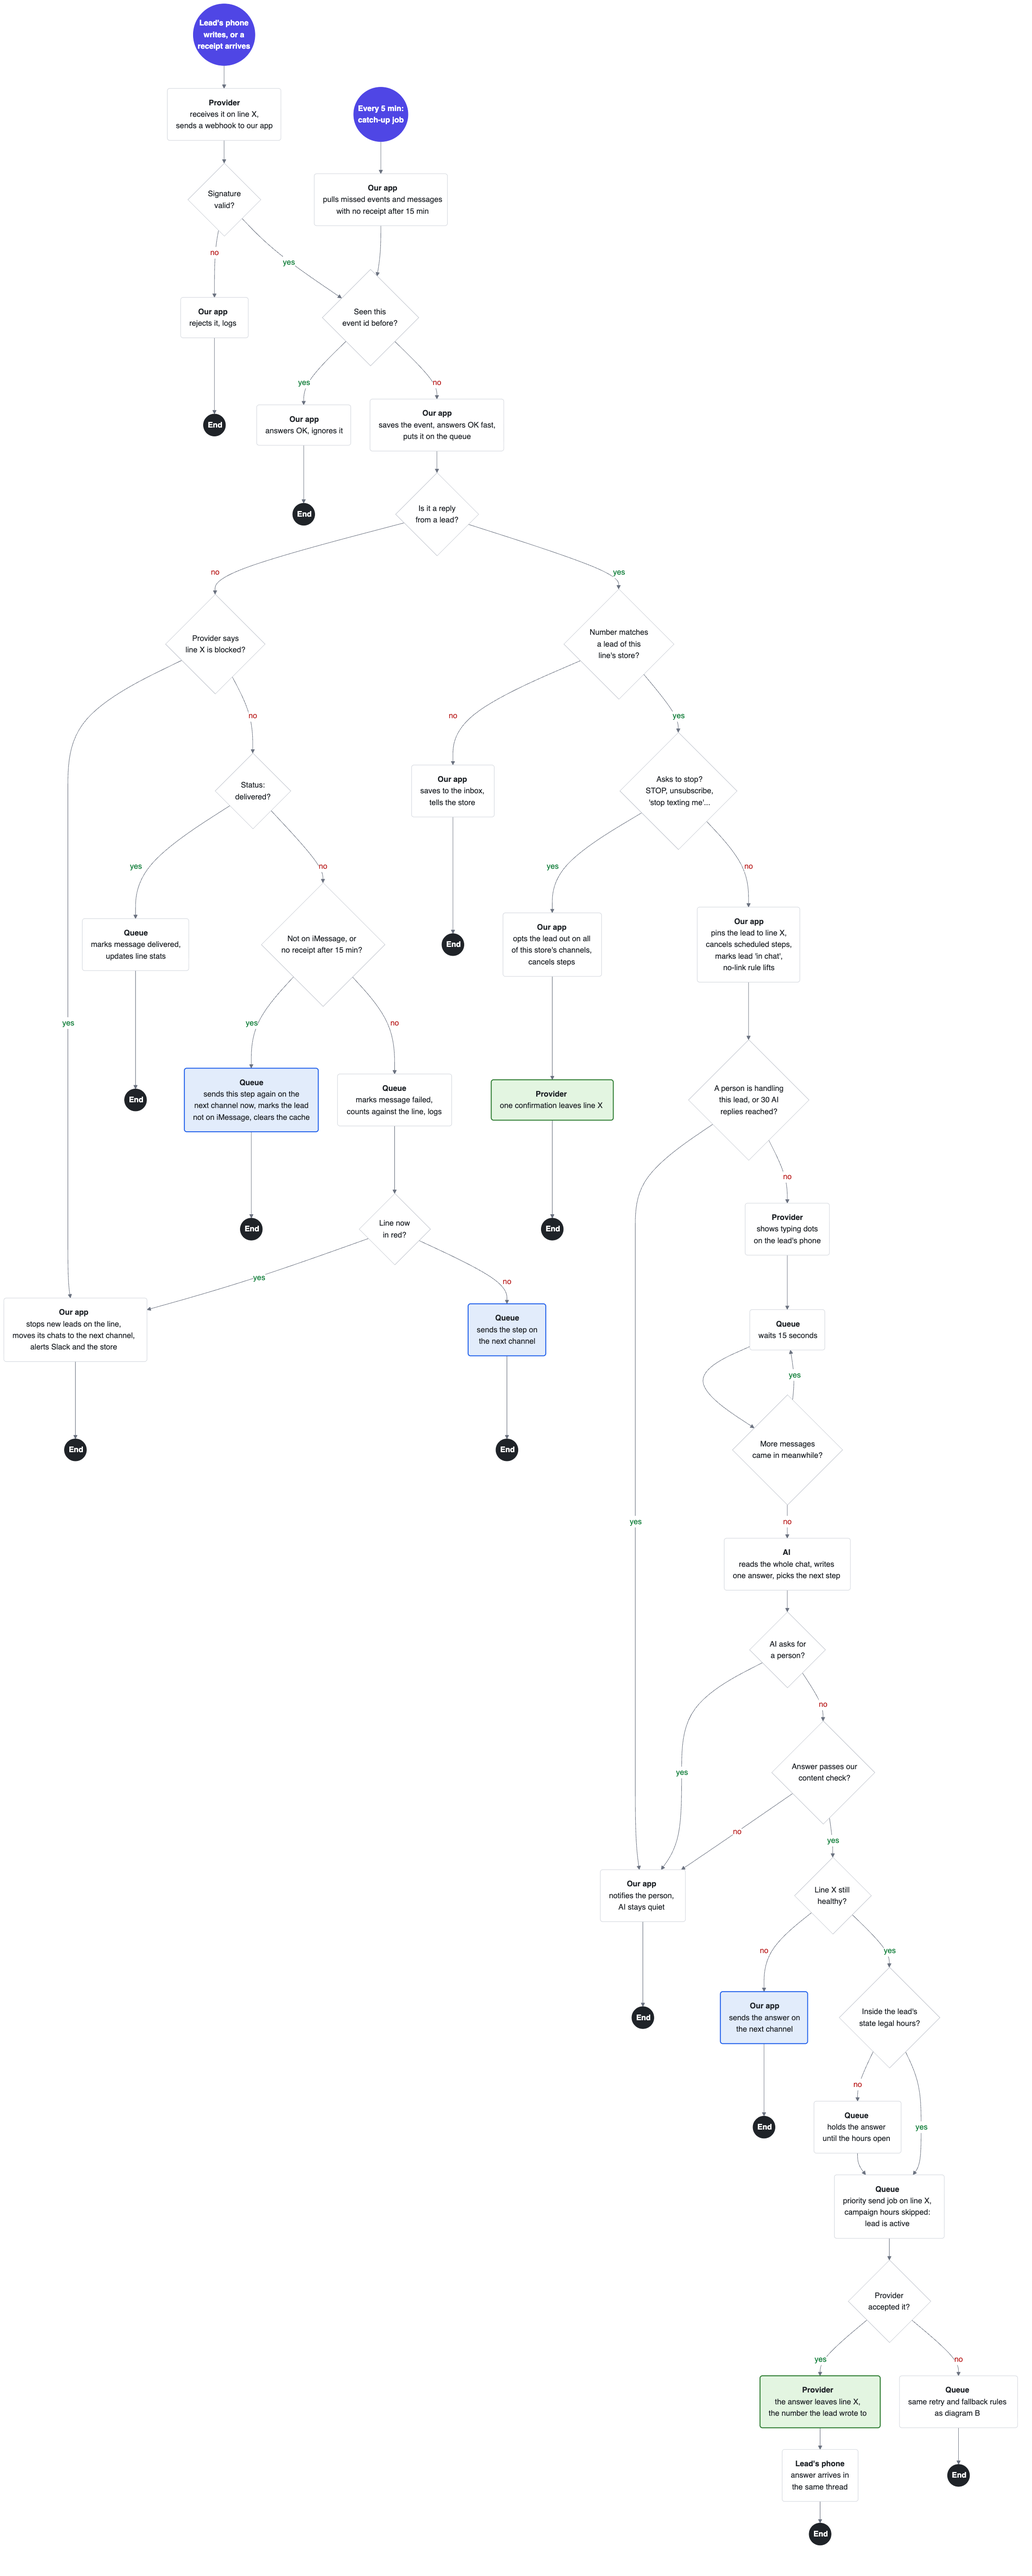
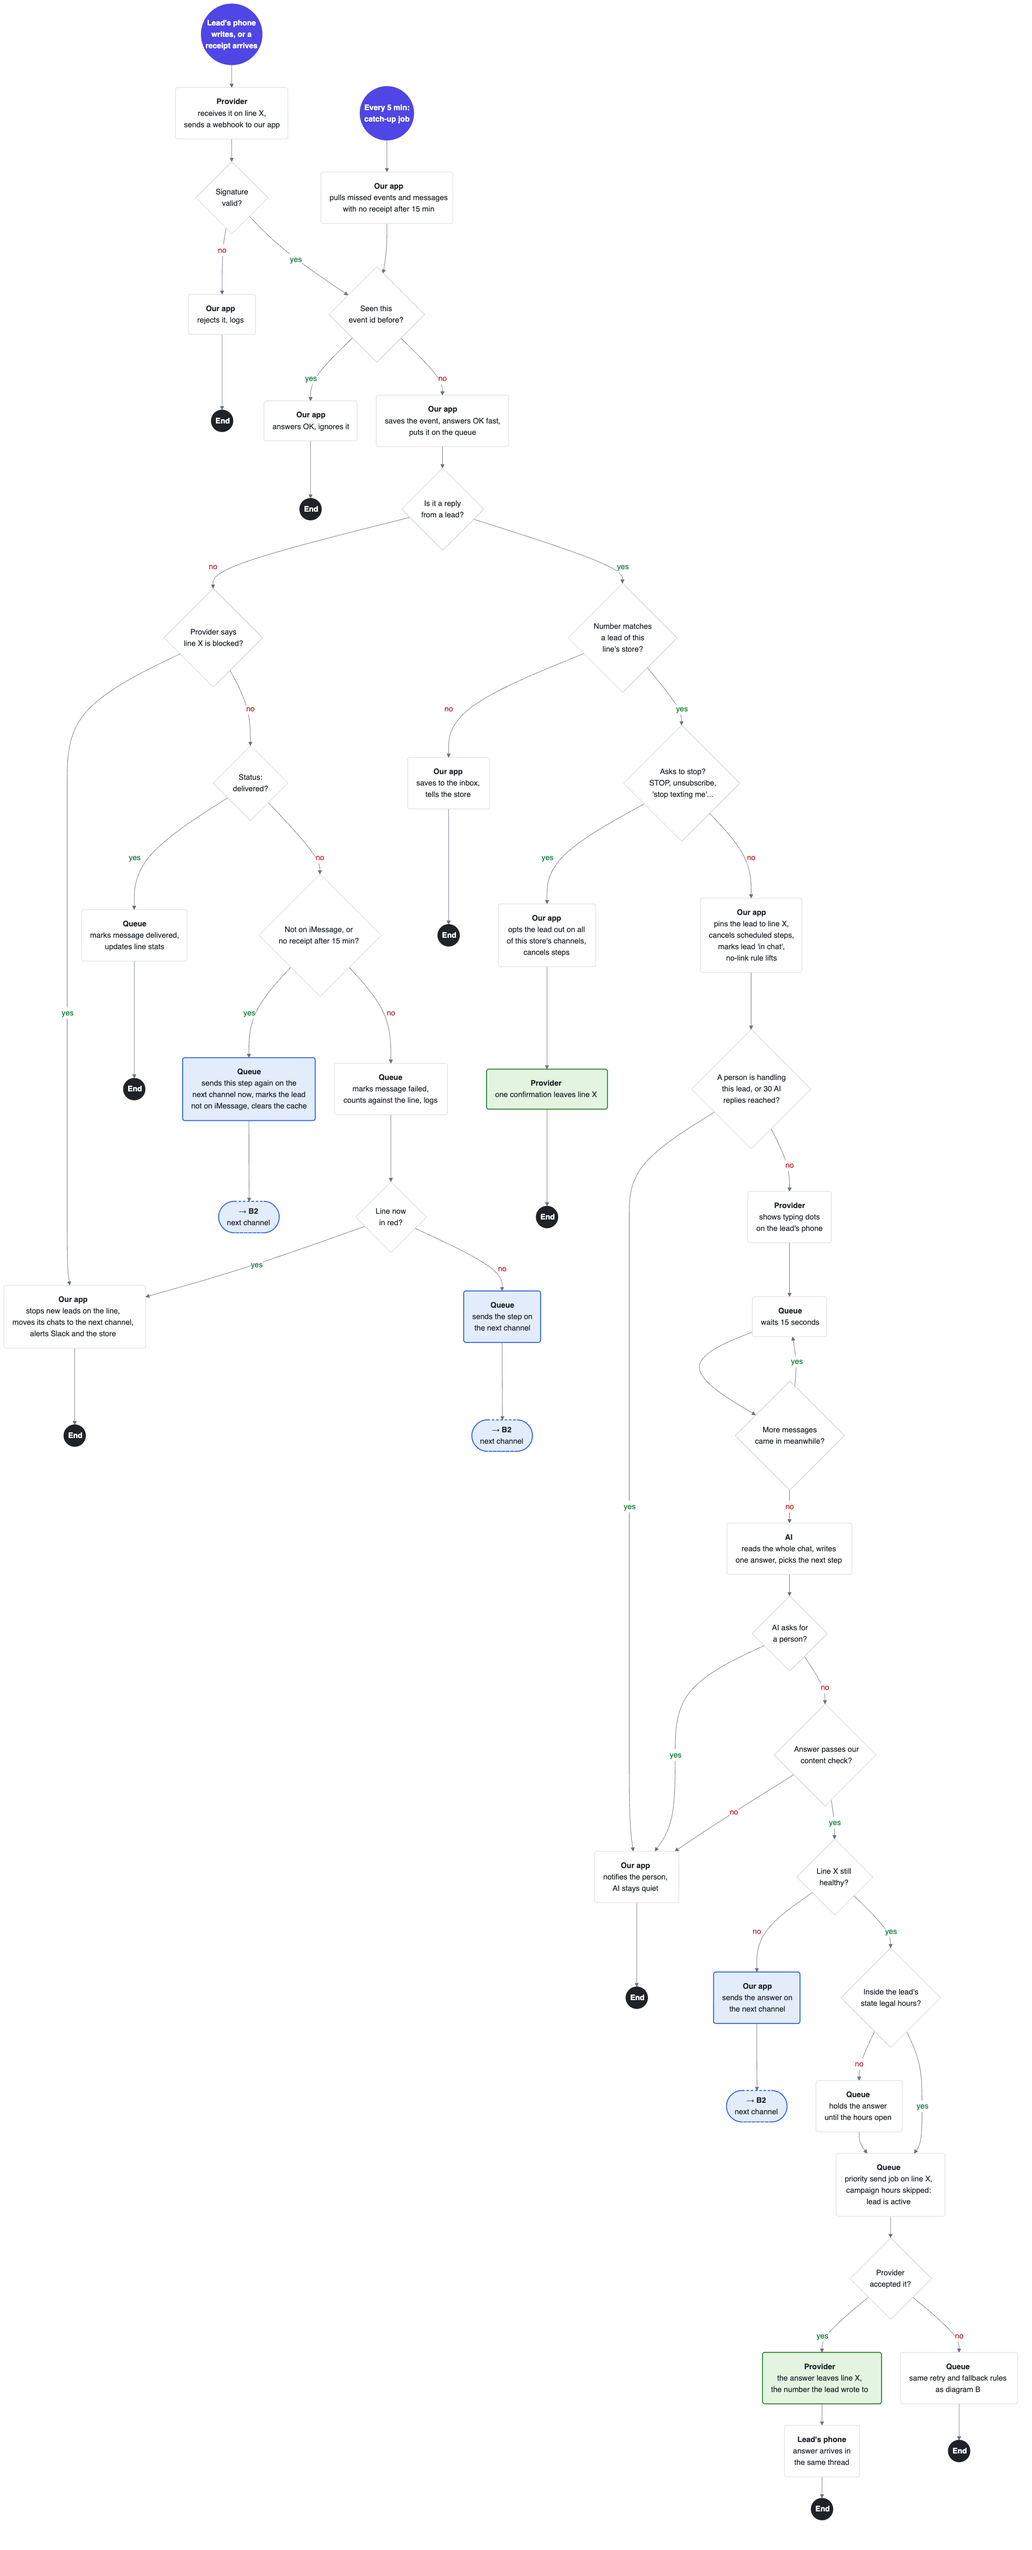
Diagram B2: where a step goes when iMessage can't take it
Every blue box in B and C now hands over to B2: a priority job due now,
the next channel the lead can get, the AI writes the step again for it,
the usual checks, and the SMS leaving the store's SMS number.

diff --git a/diagrams.md b/diagrams.md
@@ -2,16 +2,16 @@
 
 Back to the plan: [README.md](README.md)
 
-**Why B and C:** messages leave a number and replies come back only in these two, so most failures happen here. A is manual in v1, and D is covered by the plan's section 3.
+**Why B and C:** messages leave a number and replies come back only in these two, so most failures happen here. A is manual in v1, and D is covered by the plan's section 3. **B2** is the end of B: where a step goes when iMessage can't take it.
 
-**Where this sits in today's flow:** lead joins a campaign → scheduler: step is due → **B:** iMessage or the next channel → AI writes for that channel → provider sends → **C:** statuses and replies → AI answers. One change to today: for text steps, the AI writes when the step is due, not before, because only then do we know the channel.
+**Where this sits in today's flow:** lead joins a campaign → scheduler: step is due → **B:** iMessage, or the next channel (**B2**) → AI writes for that channel → provider sends → **C:** statuses and replies → AI answers. One change to today: for text steps, the AI writes when the step is due, not before, because only then do we know the channel.
 
 **How to read:**
-- 🟣 start (what triggers it) · ⚫ end, one per branch · ◇ a question, with yes and no arrows · ▢ an action, **bold** = who does it · 🟩 an iMessage leaves line X · 🟦 the step moves to the next channel
+- 🟣 start (what triggers it) · ⚫ end, one per branch · ◇ a question, with yes and no arrows · ▢ an action, **bold** = who does it · 🟩 an iMessage leaves line X · 🟦 the step moves to the next channel · dashed 🟦 → B2: continues in diagram B2
 - **Who does it:** our app, the queue, the AI, the provider, or the lead's phone.
 - **Line X** is the store's iMessage line this lead is pinned to. Every iMessage to the lead comes from it.
 - **Which steps:** iMessage is a fifth channel. When it's on, a lead on iMessage gets every text step, iMessage or SMS, from line X. One number per lead.
-- **Next channel** (blue boxes): SMS from the store's SMS number if the campaign has SMS on, else the campaign's next channel, such as email or a call. That channel's own flow and checks take over, and the AI writes the message again for it. An iMessage text is never reused.
+- **Next channel** (blue boxes): the step continues in diagram B2. It goes by SMS from the store's SMS number if the campaign has SMS on, else on the campaign's next channel, such as email or a call. The AI writes the message again for that channel. An iMessage text is never reused.
 - **No waiting on fallback:** it's a new job on the priority queue, due now, not back on the campaign schedule. From a failed iMessage to the next channel's message takes under 2 minutes.
 - **Logging:** every refusal, retry, fallback and drop is logged with its reason and the provider's error key.
 
@@ -26,33 +26,33 @@ flowchart TD
     A1 --> Q0{"Already sent?<br/>same message id"}
     Q0 -- yes --> E0(("<b>End</b>"))
     Q0 -- no --> Q1{"iMessage on globally,<br/>for the store and the campaign,<br/>with a live line?"}
-    Q1 -- no --> F1("<b>Our app</b><br/>hands the step to the campaign's<br/>next channel, no iMessage sent") --> E1(("<b>End</b>"))
+    Q1 -- no --> F1("<b>Our app</b><br/>hands the step to the campaign's<br/>next channel, no iMessage sent"):::sms --> E1(["<b>→ B2</b><br/>next channel"])
     Q1 -- yes --> Q2{"US/CA number, consent,<br/>passes Do Not Call, not opted out,<br/>not texting us from another number?<br/>pilot: not FL, MD or OK"}
-    Q2 -- no --> F2("<b>Our app</b><br/>next channel, no iMessage sent,<br/>logs why") --> E2(("<b>End</b>"))
+    Q2 -- no --> F2("<b>Our app</b><br/>next channel, no iMessage sent,<br/>logs why"):::sms --> E2(["<b>→ B2</b><br/>next channel"])
     Q2 -- yes --> Q3{"iMessage result cached<br/>in the last 30 days?"}
     Q3 -- no --> L1("<b>Provider</b><br/>lookup: is this number on iMessage?") --> L2("<b>Our app</b><br/>saves the result") --> Q4
     Q3 -- yes --> Q4{"Lead is on<br/>iMessage?"}
-    Q4 -- no --> F3("<b>Our app</b><br/>sends this step on<br/>the next channel"):::sms --> E3(("<b>End</b>"))
+    Q4 -- no --> F3("<b>Our app</b><br/>sends this step on<br/>the next channel"):::sms --> E3(["<b>→ B2</b><br/>next channel"])
     Q4 -- yes --> QG{"Pilot: in the iMessage group?<br/>picked at random once<br/>per lead, then saved"}
-    QG -- no --> F11("<b>Our app</b><br/>group without iMessage: the step<br/>runs as if iMessage were off,<br/>counted in the test"):::sms --> E15(("<b>End</b>"))
+    QG -- no --> F11("<b>Our app</b><br/>group without iMessage: the step<br/>runs as if iMessage were off,<br/>counted in the test"):::sms --> E15(["<b>→ B2</b><br/>next channel"])
     QG -- yes --> QL{"Inside the lead's<br/>state legal hours?"}
     QL -- no --> R1("<b>Queue</b><br/>moves the step to the next window") --> E4(("<b>End</b>"))
     QL -- yes --> Q5{"Inside campaign hours, or lead<br/>wrote in the last 30 min?"}
     Q5 -- no --> R1
     Q5 -- yes --> Q6{"Lead already has<br/>an iMessage line?"}
     Q6 -- yes --> Q7{"Is that line<br/>healthy?"}
-    Q7 -- no --> F4("<b>Our app</b><br/>sends on the next channel,<br/>logs why"):::sms --> E5(("<b>End</b>"))
+    Q7 -- no --> F4("<b>Our app</b><br/>sends on the next channel,<br/>logs why"):::sms --> E5(["<b>→ B2</b><br/>next channel"])
     Q7 -- yes --> X1("<b>Our app</b><br/>keeps the same line = line X") --> Q10
     Q6 -- no --> Q8{"Any of the store's lines with a<br/>free new-contact slot? daily cap<br/>10 → 25 → 50 in warm-up,<br/>15 an hour"}
     Q8 -- yes --> X2("<b>Our app</b><br/>picks the line with most free slots<br/>= line X") --> Q10
     Q8 -- no --> Q9{"Daily caps all used,<br/>or lead waited<br/>over 10 minutes?"}
-    Q9 -- yes --> F5("<b>Our app</b><br/>sends this step on the next<br/>channel while the cart is fresh"):::sms --> E6(("<b>End</b>"))
+    Q9 -- yes --> F5("<b>Our app</b><br/>sends this step on the next<br/>channel while the cart is fresh"):::sms --> E6(["<b>→ B2</b><br/>next channel"])
     Q9 -- no --> R2("<b>Queue</b><br/>tries again in 2 min") --> E7(("<b>End</b>"))
 
     Q10{"Has the lead ever<br/>written to line X?"}
     Q10 -- yes --> AI2("<b>AI</b><br/>writes the full message,<br/>checkout link allowed") --> QC
     Q10 -- no --> Q11{"Already 2 iMessages<br/>with no reply?"}
-    Q11 -- yes --> F6("<b>Our app</b><br/>moves the lead to the next<br/>channel, sends with the link"):::sms --> E8(("<b>End</b>"))
+    Q11 -- yes --> F6("<b>Our app</b><br/>moves the lead to the next<br/>channel, sends with the link"):::sms --> E8(["<b>→ B2</b><br/>next channel"])
     Q11 -- no --> AI1("<b>AI</b><br/>writes a short question: names<br/>the brand, says it's an assistant,<br/>no link, max 300 characters") --> QC
 
     QC{"Passes our<br/>content check?"}
@@ -74,12 +74,12 @@ flowchart TD
     Q13 -- no --> Q14{"Temporary error?<br/>rate limit, 5xx, timeout"}
     Q14 -- yes --> Q15{"Tried 3<br/>times already?"}
     Q15 -- no --> R4("<b>Queue</b><br/>retries after 10 s, 30 s, 60 s, logs") --> Q12
-    Q15 -- yes --> F7("<b>Our app</b><br/>sends on the next channel,<br/>logs, alerts"):::sms --> E10(("<b>End</b>"))
+    Q15 -- yes --> F7("<b>Our app</b><br/>sends on the next channel,<br/>logs, alerts"):::sms --> E10(["<b>→ B2</b><br/>next channel"])
     Q14 -- no --> Q16{"Declined because<br/>of the text?"}
     Q16 -- yes --> Q17{"Already<br/>rewritten once?"}
     Q17 -- no --> AI3("<b>AI</b><br/>rewrites without the blocked part") --> Q12
-    Q17 -- yes --> F8("<b>Our app</b><br/>sends on the next channel,<br/>logs why"):::sms --> E11(("<b>End</b>"))
-    Q16 -- no --> F9("<b>Our app</b><br/>line limit hit or line blocked:<br/>marks the line, logs,<br/>health check runs,<br/>sends this step on<br/>the next channel"):::sms --> E12(("<b>End</b>"))
+    Q17 -- yes --> F8("<b>Our app</b><br/>sends on the next channel,<br/>logs why"):::sms --> E11(["<b>→ B2</b><br/>next channel"])
+    Q16 -- no --> F9("<b>Our app</b><br/>line limit hit or line blocked:<br/>marks the line, logs,<br/>health check runs,<br/>sends this step on<br/>the next channel"):::sms --> E12(["<b>→ B2</b><br/>next channel"])
 
     classDef start fill:#4f46e5,stroke:#4f46e5,color:#ffffff
     classDef finish fill:#1f2328,stroke:#1f2328,color:#ffffff
@@ -87,17 +87,61 @@ flowchart TD
     classDef decision fill:#ffffff,stroke:#c4c8d0,color:#1f2328
     classDef out fill:#e3f5e1,stroke:#2e7d32,stroke-width:2px,color:#1f2328
     classDef sms fill:#e2ecfb,stroke:#2563eb,stroke-width:2px,color:#1f2328
+    classDef jump fill:#e2ecfb,stroke:#2563eb,stroke-width:2px,stroke-dasharray:5 4,color:#1f2328
     class S start
-    class E0,E1,E2,E3,E15,E4,E5,E6,E7,E8,E13,E14,E9,E10,E11,E12 finish
+    class E0,E4,E7,E13,E14,E9 finish
+    class E1,E2,E3,E15,E5,E6,E8,E10,E11,E12 jump
     class Q0,Q1,Q2,Q3,Q4,QG,QL,Q5,Q6,Q7,Q8,Q9,Q10,Q11,QC,QC2,Q12,QS,Q13,Q14,Q15,Q16,Q17 decision
-    class A1,F1,F2,L1,L2,R1,X1,X2,R2,AI2,AI1,AI4,F10,R3,X3,SEND,OK2,PH,R4,AI3 action
+    class A1,L1,L2,R1,X1,X2,R2,AI2,AI1,AI4,F10,R3,X3,SEND,OK2,PH,R4,AI3 action
     linkStyle 2,6,9,13,16,19,22,24,25,28,31,34,38,41,48,50,53,56,58,63,66,69,72 color:#15803d,stroke:#6b7280
     linkStyle 3,4,7,10,14,17,20,23,26,30,33,36,40,43,45,46,51,54,62,64,68,70,74 color:#b91c1c,stroke:#6b7280
 ```
 
-🟣 start (what triggers it) · ⚫ end, one per branch · ◇ a question, with yes and no arrows · ▢ an action, **bold** = who does it · 🟩 an iMessage leaves line X · 🟦 the step moves to the next channel
+🟣 start (what triggers it) · ⚫ end, one per branch · ◇ a question, with yes and no arrows · ▢ an action, **bold** = who does it · 🟩 an iMessage leaves line X · 🟦 the step moves to the next channel · dashed 🟦 → B2: continues in diagram B2
 
 If the diagram doesn't render: [diagram-b.png](diagram-b.png)
+
+---
+
+## B2. Next channel: where a step goes when iMessage can't take it
+
+Every blue box in B and C ends here. The step doesn't wait for the campaign schedule, and the AI writes it again for the new channel.
+
+```mermaid
+%%{init: {"theme": "base", "themeVariables": {"fontFamily": "Helvetica, Arial, sans-serif", "primaryColor": "#ffffff", "primaryBorderColor": "#d0d4db", "primaryTextColor": "#1f2328", "lineColor": "#6b7280", "edgeLabelBackground": "#ffffff"}, "themeCSS": "foreignObject { overflow: visible; } .nodeLabel { white-space: nowrap; }", "flowchart": {"curve": "basis", "nodeSpacing": 40, "rankSpacing": 45, "padding": 18}}}%%
+flowchart TD
+    S(("<b>A blue box<br/>in B or C</b>")) --> Q0("<b>Queue</b><br/>new priority job, due now,<br/>iMessage crossed out for this step")
+    Q0 --> C1{"Another channel the campaign<br/>has on, that the lead can get?<br/>consent, not opted out.<br/>SMS first, then email or a call"}
+    C1 -- no --> N1("<b>Our app</b><br/>no channel left:<br/>drops the step, logs why") --> E1(("<b>End</b>"))
+    C1 -- yes --> AI1("<b>AI</b><br/>writes the step again for that channel.<br/>SMS: short, with the link and how to stop.<br/>Mid-chat: says it's the same store,<br/>on a new number")
+    AI1 --> C2{"Passes our<br/>content check?"}
+    C2 -- no --> N2("<b>Our app</b><br/>does not send, logs,<br/>alerts the team") --> E2(("<b>End</b>"))
+    C2 -- yes --> C3{"Inside the lead's legal hours,<br/>and campaign hours unless<br/>the lead is mid-chat?"}
+    C3 -- no --> N3("<b>Queue</b><br/>holds it for the next window,<br/>still a priority job") --> E3(("<b>End</b>"))
+    C3 -- yes --> C4{"Step still wanted?<br/>no purchase, reply<br/>or opt-out meanwhile"}
+    C4 -- no --> N4("<b>Queue</b><br/>drops it, logs why") --> E4(("<b>End</b>"))
+    C4 -- yes --> SEND("<b>Our app → that channel's provider</b><br/>SMS: our Twilio account")
+    SEND --> C5{"Provider<br/>accepted it?"}
+    C5 -- yes --> OUT("<b>Provider</b><br/>the SMS leaves the store's SMS number.<br/>Email or call: the store's usual sender"):::sms
+    OUT --> PH("<b>Lead's phone</b><br/>green bubble from the<br/>store's SMS number") --> E5(("<b>End</b>"))
+    C5 -- no --> N5("<b>Queue</b><br/>that channel's own retries.<br/>Still failing: crosses it out too") --> C1
+
+    classDef start fill:#4f46e5,stroke:#4f46e5,color:#ffffff
+    classDef finish fill:#1f2328,stroke:#1f2328,color:#ffffff
+    classDef action fill:#ffffff,stroke:#d0d4db,color:#1f2328
+    classDef decision fill:#ffffff,stroke:#c4c8d0,color:#1f2328
+    classDef sms fill:#e2ecfb,stroke:#2563eb,stroke-width:2px,color:#1f2328
+    class S start
+    class E1,E2,E3,E4,E5 finish
+    class C1,C2,C3,C4,C5 decision
+    class Q0,N1,AI1,N2,N3,N4,SEND,PH,N5 action
+    linkStyle 4,8,11,14,16 color:#15803d,stroke:#6b7280
+    linkStyle 2,6,9,12,19 color:#b91c1c,stroke:#6b7280
+```
+
+🟣 start · ⚫ end, one per branch · ◇ a question, with yes and no arrows · ▢ an action, **bold** = who does it · 🟦 an SMS leaves the store's SMS number
+
+If the diagram doesn't render: [diagram-b2.png](diagram-b2.png)
 
 ---
 
@@ -120,10 +164,10 @@ flowchart TD
     Q4a -- no --> Q4{"Status:<br/>delivered?"}
     Q4 -- yes --> D1("<b>Queue</b><br/>marks message delivered,<br/>updates line stats") --> E3(("<b>End</b>"))
     Q4 -- no --> Q5{"Not on iMessage, or<br/>no receipt after 15 min?"}
-    Q5 -- yes --> D2("<b>Queue</b><br/>sends this step again on the<br/>next channel now, marks the lead<br/>not on iMessage, clears the cache"):::sms --> E4(("<b>End</b>"))
+    Q5 -- yes --> D2("<b>Queue</b><br/>sends this step again on the<br/>next channel now, marks the lead<br/>not on iMessage, clears the cache"):::sms --> E4(["<b>→ B2</b><br/>next channel"])
     Q5 -- no --> D3("<b>Queue</b><br/>marks message failed,<br/>counts against the line, logs") --> Q6{"Line now<br/>in red?"}
     Q6 -- yes --> D4("<b>Our app</b><br/>stops new leads on the line,<br/>moves its chats to the next channel,<br/>alerts Slack and the store") --> E5(("<b>End</b>"))
-    Q6 -- no --> D5("<b>Queue</b><br/>sends the step on<br/>the next channel"):::sms --> E6(("<b>End</b>"))
+    Q6 -- no --> D5("<b>Queue</b><br/>sends the step on<br/>the next channel"):::sms --> E6(["<b>→ B2</b><br/>next channel"])
 
     Q3 -- yes --> Q7{"Number matches<br/>a lead of this<br/>line's store?"}
     Q7 -- no --> R1("<b>Our app</b><br/>saves to the inbox,<br/>tells the store") --> E7(("<b>End</b>"))
@@ -141,7 +185,7 @@ flowchart TD
     Q11 -- no --> QC{"Answer passes our<br/>content check?"}
     QC -- no --> R4
     QC -- yes --> Q12{"Line X still<br/>healthy?"}
-    Q12 -- no --> R6("<b>Our app</b><br/>sends the answer on<br/>the next channel"):::sms --> E10(("<b>End</b>"))
+    Q12 -- no --> R6("<b>Our app</b><br/>sends the answer on<br/>the next channel"):::sms --> E10(["<b>→ B2</b><br/>next channel"])
     Q12 -- yes --> QL{"Inside the lead's<br/>state legal hours?"}
     QL -- no --> R9("<b>Queue</b><br/>holds the answer<br/>until the hours open") --> R7
     QL -- yes --> R7("<b>Queue</b><br/>priority send job on line X,<br/>campaign hours skipped:<br/>lead is active")
@@ -156,14 +200,16 @@ flowchart TD
     classDef decision fill:#ffffff,stroke:#c4c8d0,color:#1f2328
     classDef out fill:#e3f5e1,stroke:#2e7d32,stroke-width:2px,color:#1f2328
     classDef sms fill:#e2ecfb,stroke:#2563eb,stroke-width:2px,color:#1f2328
+    classDef jump fill:#e2ecfb,stroke:#2563eb,stroke-width:2px,stroke-dasharray:5 4,color:#1f2328
     class S,S2 start
-    class E1,E2,E3,E4,E5,E6,E7,E8,E9,E10,E11,E12 finish
+    class E1,E2,E3,E5,E7,E8,E9,E11,E12 finish
+    class E4,E6,E10 jump
     class Q1,Q2,Q3,Q4a,Q4,Q5,Q6,Q7,Q8,Q9,Q10,Q11,QC,Q12,QL,Q13 decision
     class P1,CU,X1,X2,A1,D1,D3,D4,R1,R2,R3,R4,TY,R5,AI,R9,R7,PH,R8 action
     linkStyle 6,7,12,14,17,21,25,28,29,34,39,42,45,48,51,53 color:#15803d,stroke:#6b7280
     linkStyle 4,9,11,13,16,19,23,26,32,36,40,43,44,46,49,56 color:#b91c1c,stroke:#6b7280
 ```
 
-🟣 start (what triggers it) · ⚫ end, one per branch · ◇ a question, with yes and no arrows · ▢ an action, **bold** = who does it · 🟩 an iMessage leaves line X · 🟦 the step moves to the next channel
+🟣 start (what triggers it) · ⚫ end, one per branch · ◇ a question, with yes and no arrows · ▢ an action, **bold** = who does it · 🟩 an iMessage leaves line X · 🟦 the step moves to the next channel · dashed 🟦 → B2: continues in diagram B2
 
 If the diagram doesn't render: [diagram-c.png](diagram-c.png)
